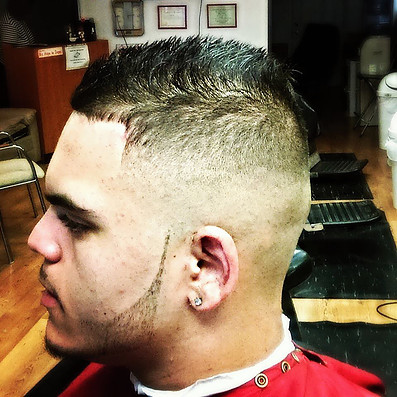
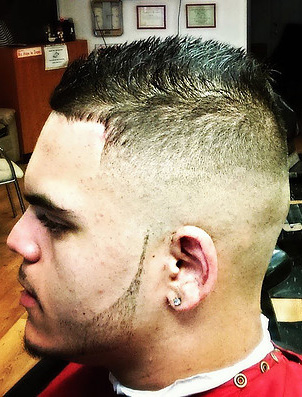
Style images to for responsive design

diff --git a/index.html b/index.html
@@ -84,7 +84,7 @@
         <div class="carousel-inner">
             <div class="item active">
                 <!-- Set the first background image using inline CSS below. -->
-                <div class="fill" style="background-image:url('img/feas_photos/feas_cousin.jpg'); width: 500px; margin: 0 auto;">
+                <div class="fill" style="background-image:url('img/feas_photos/feas_cousin_crop.jpg'); width: 410px; margin: 0 auto;">
 
                 </div>
                 <!-- <div class="carousel-caption">
@@ -94,7 +94,7 @@
             <div class="item">
                 <!-- Set the third background image using inline CSS below. -->
 
-                <div class="fill" style="background-image:url('img/feas_photos/fea_8.jpg');width: 500px; margin: 0 auto;"></div>
+                <div class="fill" style="background-image:url('img/feas_photos/fea_8.jpg');width: 410px; margin: 0 auto;"></div>
 
                 <!-- <div class="carousel-caption">
                     <h2>Caption 3</h2>
@@ -102,7 +102,7 @@
             </div>
             <div class="item">
                 <!-- Set the third background image using inline CSS below. -->
-                <div class="fill" style="background-image:url('img/feas_photos/fea_11.jpg');width: 500px; margin: 0 auto;"></div>
+                <div class="fill" style="background-image:url('img/feas_photos/fea_11.jpg');width: 410px; margin: 0 auto;"></div>
 
                 <!-- <div class="carousel-caption">
                     <h2>Caption 3</h2>
@@ -111,7 +111,7 @@
             <div class="item">
                 <!-- Set the second background image using inline CSS below. -->
 
-                <div class="fill" style="background-image:url('img/feas_photos/fea_7.jpg');width: 500px; margin: 0 auto;"></div>
+                <div class="fill" style="background-image:url('img/feas_photos/fea_7.jpg');width: 800px; margin: 0 auto;"></div>
 
                 <!-- <div class="carousel-caption">
                     <h2>Caption 2</h2>
@@ -126,7 +126,7 @@
             </div>
             <div class="item">
                 <!-- Set the second background image using inline CSS below. -->
-                <div class="fill" style="background-image:url('img/feas_photos/fea_9.jpg');width: 500px; margin: 0 auto;"></div>
+                <div class="fill" style="background-image:url('img/feas_photos/fea_9.jpg');width: 460px; margin: 0 auto;"></div>
 
                 <!-- <div class="carousel-caption">
                     <h2>Caption 2</h2>

diff --git a/css/freelancer.css b/css/freelancer.css
@@ -546,3 +546,6 @@ footer .footer-below {
     width: 70%;
     height: 80%;
 }
+
+.slideshow { width: 80%; height: 300px; margin: auto; border: 1px solid #bbb; background: #ffc }
+.slideshow img { opacity: 0; filter:alpha(opacity=0); }

diff --git a/css/full-slider.css b/css/full-slider.css
@@ -13,10 +13,12 @@ body {
 .item,
 .active {
     height: 100%;
+    margin-top: 3rem;
 }
 
 .carousel-inner {
     height: 100%;
+
 }
 
 /* Background images are set within the HTML using inline CSS, not here */
